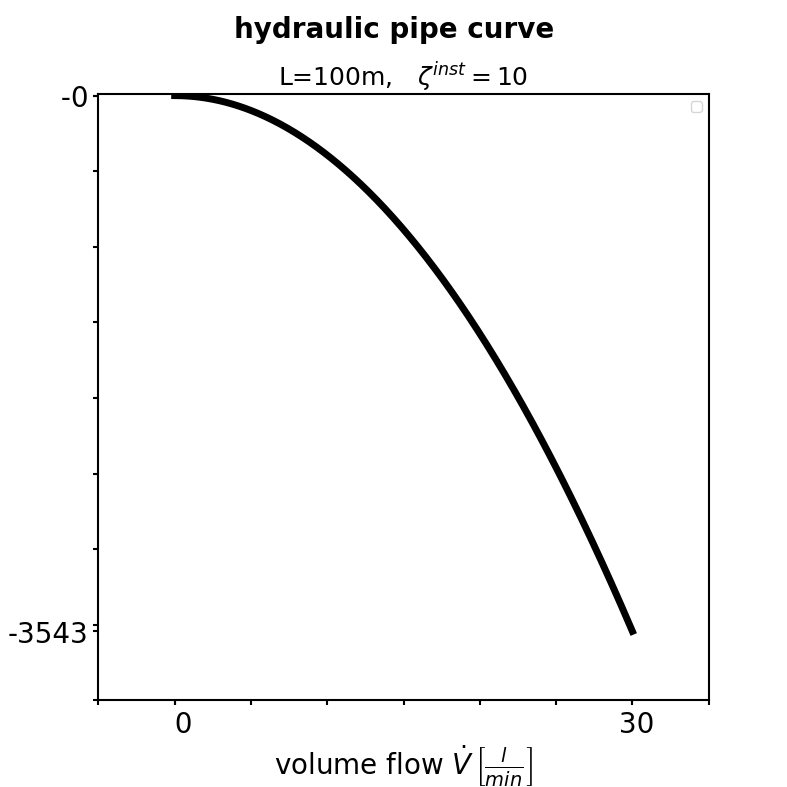
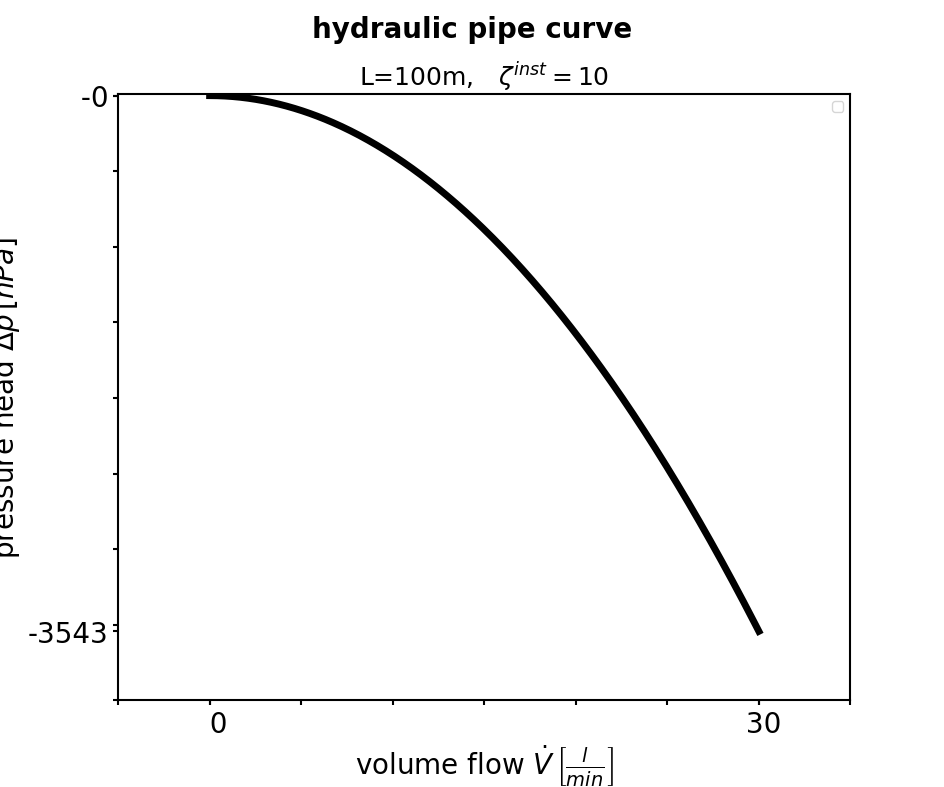
optimize valve model scheme visualization

diff --git a/Z2_visualize_component_models_schemes.py b/Z2_visualize_component_models_schemes.py
@@ -25,7 +25,7 @@ plt.close(fig='all')
 ############################ general parameters ############################
 
 myfigsize = [2*20.0/2.54, 2*10.0/2.54]
-myfigsize2= [2*10.0/2.54, 2*10.0/2.54]
+myfigsize2= [2*12.0/2.54, 2*10.0/2.54]
 myfontsize = 20
 mythickness = 5
 mylinestyles = [':', '-.', '--', '-']
@@ -326,18 +326,20 @@ if show_valve == True:
     plt.figure(num='Ventil', figsize=myfigsize2)
     
     for i in range(len(kappa_test)):
-        plt.plot(dotV_vec_test, Deltap_valve[:,i], label=''.join((r'$\kappa$=',str(kappa_test[i]))),\
+        indices = Deltap_valve[:,i]>=-1000
+        printDeltap = Deltap_valve[indices,i]
+        plt.plot(dotV_vec_test[indices], printDeltap, label=''.join((r'$\kappa$=',str(kappa_test[i]))),\
         linewidth=mythickness, linestyle=mylinestyles[i], color=mylinecolors[i])
         
     #plt.plot(dotV_vec_test, np.zeros(len(dotV_vec_test)), color = 'k', linewidth=mythickness)
     my_set_ticks4(dotV_vec_test, Deltap_valve)
     plt.title('control valve model curve', fontsize=myfontsize, fontweight='bold')
-    
-    plt.gca().set_xlabel(r'volume flow $\dot{V}\/\left[ \frac{l}{min}\right]$', fontsize=myfontsize)
-    plt.gca().set_ylabel(r'pressure head $\Delta p\/\left[hPa\right]$', fontsize=myfontsize)
+   
     plt.gca().set_ylim(ymax=+10)
     plt.gca().set_ylim(ymin=-1000)
     plt.tick_params(axis='both', labelsize=myfontsize)
+    plt.gca().set_xlabel(r'volume flow $\dot{V}\/\left[ \frac{l}{min}\right]$', fontsize=myfontsize)
+    plt.gca().set_ylabel(r'pressure head $\Delta p\/\left[hPa\right]$', fontsize=myfontsize, labelpad=-20)
     plt.legend(fontsize = 0.8*myfontsize)
     # secax = plt.gca().secondary_xaxis('top', functions=(lambda x: x*60, lambda x: x/60))
     # secax.set_xlabel(r'volume flux $\dot{V}\/\left[ \frac{l}{min}\right]$', fontsize=myfontsize)
